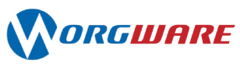
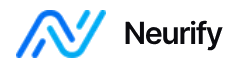
Update Neurify client branding

diff --git a/index.html b/index.html
@@ -406,7 +406,7 @@
 </div>
 <div class="bubble-element Group baTaSkp bubble-r-container flex column" style="overflow: visible; justify-content: flex-start; row-gap: 44px; border-radius: 0px; opacity: 1; align-self: flex-start; min-width: 0px; order: 2; min-height: 0px; height: max-content; flex-grow: 0; flex-shrink: 0; width: calc(100% + 0px); margin: 24px 0px 0px; z-index: 6;"><div class="bubble-element Text baTaSkr" style="white-space: pre-wrap; overflow: visible; font-family: var(--font_default); font-size: 24px; font-weight: 400; color: var(--color_text_default); line-height: 1.4; border-radius: 0px; opacity: 1; align-self: flex-start; min-width: 320px; max-width: 680px; order: 2; min-height: 0px; height: max-content; flex-grow: 0; flex-shrink: 0; width: auto; margin: 0px; z-index: 2;">We build real software &mdash; <font color="#FF7C60"><strong>fast</strong></font> &mdash; using <font color="#3281dc"><strong>AI-native</strong></font> engineering and product thinking.</div><button class="clickable-element bubble-element Button baTaSkq flex-aligned-button" style="background-color: var(--color_text_default); font-family: var(--font_default); font-size: 18px; font-weight: 600; color: var(--color_primary_contrast_default); text-align: center; letter-spacing: 0.1px; line-height: 1.4; border-radius: 12px; padding: 8px 20px; opacity: 1; transition: background 200ms; cursor: pointer; align-self: flex-start; min-width: 60px; order: 3; min-height: 48px; height: max-content; flex-grow: 0; flex-shrink: 0; width: auto; margin: 0px; z-index: 3; flex-direction: row; justify-content: center; gap: 8px; align-items: center;"><span class="icon-item" style="width: 20px; height: 20px; color: var(--color_primary_contrast_default); flex-shrink: 0; font-size: 0px;"><span class="ix-icon" aria-hidden="true"><i class="fa fa-arrow-circle-down"></i></span></span><span class="label-item" style="min-width: 0px; overflow-wrap: break-word; text-align: center;">How fast can you build?</span></button></div>
 </div>
-<div class="bubble-element Group baTaSaYf bubble-r-container flex column" style="overflow: visible; justify-content: flex-start; border-top: 1px solid rgba(84, 84, 84, 0.2); border-radius: 0px; border-bottom: 1px solid rgba(84, 84, 84, 0.2); padding: 24px 0px; opacity: 1; align-self: center; min-width: 0px; order: 11; min-height: 56px; height: max-content; flex-grow: 0; flex-shrink: 0; width: calc(100% + 0px); margin: 40px 0px; z-index: 11;"><div class="bubble-element Group baTaSdaX bubble-r-container flex column" style="overflow: visible; justify-content: flex-start; border-radius: 0px; opacity: 1; align-self: center; min-width: 0px; max-width: 1200px; order: 3; min-height: 0px; height: max-content; flex-grow: 0; flex-shrink: 0; width: calc(100% + 0px); margin: 0px; z-index: 4;"><div class="bubble-element RepeatingGroup baTaSdaQ bubble-rg" id="clientLogosContainer" style="overflow: auto; border-radius: 0px; opacity: 1; align-self: center; min-width: 0px; order: 1; min-height: 120px; height: max-content; flex-grow: 0; flex-shrink: 0; width: calc(100% + 0px); margin: 0px; z-index: 3; gap: 0px; grid-template-rows: repeat(1, minmax(max-content, auto)); grid-template-columns: repeat(6, minmax(0px, 1fr)); grid-auto-flow: row;"><div class="bubble-element group-item bubble-r-container flex column entry-1" style="box-sizing: content-box; justify-content: center;"><div class="clickable-element bubble-element Image baTaSdaV" title="Concreon" style="border-radius: 16px; opacity: 1; cursor: pointer; align-self: center; min-width: 170px; max-width: 170px; order: 1; height: max-content; flex-grow: 0; flex-shrink: 0; width: 170px; margin: 10px 0px; z-index: 2;"><div class="aspect-ratio" style="position: relative; height: 0px; padding-top: 27.9221%;"></div><img src="./assets/images/ClientBrand1.png" alt="" style="top: 0px; left: 0px; display: block; width: 100%; height: 100%; object-fit: cover; position: absolute; border-radius: 16px;"></div></div><div class="bubble-element group-item bubble-r-container flex column entry-2" style="box-sizing: content-box; border-left-width: 0px; border-left-color: rgba(var(--color_text_default_rgb), 0.15); border-left-style: none; margin-left: 0px; justify-content: center;"><div class="clickable-element bubble-element Image baTaSdaV" title="Verve VFX Studio" style="border-radius: 16px; opacity: 1; cursor: pointer; align-self: center; min-width: 170px; max-width: 170px; order: 1; height: max-content; flex-grow: 0; flex-shrink: 0; width: 170px; margin: 10px 0px; z-index: 2; box-shadow: none;"><div class="aspect-ratio" style="position: relative; height: 0px; padding-top: 27.9221%;"></div><img src="./assets/images/ClientBrand3.png" alt="" style="top: 0px; left: 0px; display: block; width: 100%; height: 100%; object-fit: cover; position: absolute; border-radius: 16px;"></div></div><div class="bubble-element group-item bubble-r-container flex column entry-3" style="box-sizing: content-box; border-left-width: 0px; border-left-color: rgba(var(--color_text_default_rgb), 0.15); border-left-style: none; margin-left: 0px; justify-content: center;"><div class="clickable-element bubble-element Image baTaSdaV" title="Bibles for America" style="border-radius: 16px; opacity: 1; cursor: pointer; align-self: center; min-width: 170px; max-width: 170px; order: 1; height: max-content; flex-grow: 0; flex-shrink: 0; width: 170px; margin: 10px 0px; z-index: 2; box-shadow: none;"><div class="aspect-ratio" style="position: relative; height: 0px; padding-top: 27.9221%;"></div><img src="./assets/images/ClientBrand5.png" alt="" style="top: 0px; left: 0px; display: block; width: 100%; height: 100%; object-fit: cover; position: absolute; border-radius: 16px;"></div></div><div class="bubble-element group-item bubble-r-container flex column entry-4" style="box-sizing: content-box; border-left-width: 0px; border-left-color: rgba(var(--color_text_default_rgb), 0.15); border-left-style: none; margin-left: 0px; justify-content: center;"><div class="clickable-element bubble-element Image baTaSdaV" title="NTeli" style="border-radius: 16px; opacity: 1; cursor: pointer; align-self: center; min-width: 170px; max-width: 170px; order: 1; height: max-content; flex-grow: 0; flex-shrink: 0; width: 170px; margin: 10px 0px; z-index: 2; box-shadow: none;"><div class="aspect-ratio" style="position: relative; height: 0px; padding-top: 27.9221%;"></div><img src="./assets/images/ClientBrand6.png" alt="" style="top: 0px; left: 0px; display: block; width: 100%; height: 100%; object-fit: cover; position: absolute; border-radius: 16px;"></div></div><div class="bubble-element group-item bubble-r-container flex column entry-5" style="box-sizing: content-box; border-left-width: 0px; border-left-color: rgba(var(--color_text_default_rgb), 0.15); border-left-style: none; margin-left: 0px; justify-content: center;"><div class="clickable-element bubble-element Image baTaSdaV" title="JKS InfoTech" style="border-radius: 16px; opacity: 1; cursor: pointer; align-self: center; min-width: 170px; max-width: 170px; order: 1; height: max-content; flex-grow: 0; flex-shrink: 0; width: 170px; margin: 10px 0px; z-index: 2; box-shadow: none;"><div class="aspect-ratio" style="position: relative; height: 0px; padding-top: 27.9221%;"></div><img src="./assets/images/ClientBrand2.png" alt="" style="top: 0px; left: 0px; display: block; width: 100%; height: 100%; object-fit: cover; position: absolute; border-radius: 16px;"></div></div><div class="bubble-element group-item bubble-r-container flex column entry-6" style="box-sizing: content-box; border-left-width: 0px; border-left-color: rgba(var(--color_text_default_rgb), 0.15); border-left-style: none; margin-left: 0px; justify-content: center;"><div class="clickable-element bubble-element Image baTaSdaV" title="OrgWare" style="border-radius: 16px; opacity: 1; cursor: pointer; align-self: center; min-width: 170px; max-width: 170px; order: 1; height: max-content; flex-grow: 0; flex-shrink: 0; width: 170px; margin: 10px 0px; z-index: 2;"><div class="aspect-ratio" style="position: relative; height: 0px; padding-top: 27.9221%;"></div><img src="./assets/images/ClientBrand4.png" alt="" style="top: 0px; left: 0px; display: block; width: 100%; height: 100%; object-fit: cover; position: absolute; border-radius: 16px;"></div></div></div></div></div>
+<div class="bubble-element Group baTaSaYf bubble-r-container flex column" style="overflow: visible; justify-content: flex-start; border-top: 1px solid rgba(84, 84, 84, 0.2); border-radius: 0px; border-bottom: 1px solid rgba(84, 84, 84, 0.2); padding: 24px 0px; opacity: 1; align-self: center; min-width: 0px; order: 11; min-height: 56px; height: max-content; flex-grow: 0; flex-shrink: 0; width: calc(100% + 0px); margin: 40px 0px; z-index: 11;"><div class="bubble-element Group baTaSdaX bubble-r-container flex column" style="overflow: visible; justify-content: flex-start; border-radius: 0px; opacity: 1; align-self: center; min-width: 0px; max-width: 1200px; order: 3; min-height: 0px; height: max-content; flex-grow: 0; flex-shrink: 0; width: calc(100% + 0px); margin: 0px; z-index: 4;"><div class="bubble-element RepeatingGroup baTaSdaQ bubble-rg" id="clientLogosContainer" style="overflow: auto; border-radius: 0px; opacity: 1; align-self: center; min-width: 0px; order: 1; min-height: 120px; height: max-content; flex-grow: 0; flex-shrink: 0; width: calc(100% + 0px); margin: 0px; z-index: 3; gap: 0px; grid-template-rows: repeat(1, minmax(max-content, auto)); grid-template-columns: repeat(6, minmax(0px, 1fr)); grid-auto-flow: row;"><div class="bubble-element group-item bubble-r-container flex column entry-1" style="box-sizing: content-box; justify-content: center;"><div class="clickable-element bubble-element Image baTaSdaV" title="Concreon" style="border-radius: 16px; opacity: 1; cursor: pointer; align-self: center; min-width: 170px; max-width: 170px; order: 1; height: max-content; flex-grow: 0; flex-shrink: 0; width: 170px; margin: 10px 0px; z-index: 2;"><div class="aspect-ratio" style="position: relative; height: 0px; padding-top: 27.9221%;"></div><img src="./assets/images/ClientBrand1.png" alt="" style="top: 0px; left: 0px; display: block; width: 100%; height: 100%; object-fit: cover; position: absolute; border-radius: 16px;"></div></div><div class="bubble-element group-item bubble-r-container flex column entry-2" style="box-sizing: content-box; border-left-width: 0px; border-left-color: rgba(var(--color_text_default_rgb), 0.15); border-left-style: none; margin-left: 0px; justify-content: center;"><div class="clickable-element bubble-element Image baTaSdaV" title="Verve VFX Studio" style="border-radius: 16px; opacity: 1; cursor: pointer; align-self: center; min-width: 170px; max-width: 170px; order: 1; height: max-content; flex-grow: 0; flex-shrink: 0; width: 170px; margin: 10px 0px; z-index: 2; box-shadow: none;"><div class="aspect-ratio" style="position: relative; height: 0px; padding-top: 27.9221%;"></div><img src="./assets/images/ClientBrand3.png" alt="" style="top: 0px; left: 0px; display: block; width: 100%; height: 100%; object-fit: cover; position: absolute; border-radius: 16px;"></div></div><div class="bubble-element group-item bubble-r-container flex column entry-3" style="box-sizing: content-box; border-left-width: 0px; border-left-color: rgba(var(--color_text_default_rgb), 0.15); border-left-style: none; margin-left: 0px; justify-content: center;"><div class="clickable-element bubble-element Image baTaSdaV" title="Bibles for America" style="border-radius: 16px; opacity: 1; cursor: pointer; align-self: center; min-width: 170px; max-width: 170px; order: 1; height: max-content; flex-grow: 0; flex-shrink: 0; width: 170px; margin: 10px 0px; z-index: 2; box-shadow: none;"><div class="aspect-ratio" style="position: relative; height: 0px; padding-top: 27.9221%;"></div><img src="./assets/images/ClientBrand5.png" alt="" style="top: 0px; left: 0px; display: block; width: 100%; height: 100%; object-fit: cover; position: absolute; border-radius: 16px;"></div></div><div class="bubble-element group-item bubble-r-container flex column entry-4" style="box-sizing: content-box; border-left-width: 0px; border-left-color: rgba(var(--color_text_default_rgb), 0.15); border-left-style: none; margin-left: 0px; justify-content: center;"><div class="clickable-element bubble-element Image baTaSdaV" title="NTeli" style="border-radius: 16px; opacity: 1; cursor: pointer; align-self: center; min-width: 170px; max-width: 170px; order: 1; height: max-content; flex-grow: 0; flex-shrink: 0; width: 170px; margin: 10px 0px; z-index: 2; box-shadow: none;"><div class="aspect-ratio" style="position: relative; height: 0px; padding-top: 27.9221%;"></div><img src="./assets/images/ClientBrand6.png" alt="" style="top: 0px; left: 0px; display: block; width: 100%; height: 100%; object-fit: cover; position: absolute; border-radius: 16px;"></div></div><div class="bubble-element group-item bubble-r-container flex column entry-5" style="box-sizing: content-box; border-left-width: 0px; border-left-color: rgba(var(--color_text_default_rgb), 0.15); border-left-style: none; margin-left: 0px; justify-content: center;"><div class="clickable-element bubble-element Image baTaSdaV" title="JKS InfoTech" style="border-radius: 16px; opacity: 1; cursor: pointer; align-self: center; min-width: 170px; max-width: 170px; order: 1; height: max-content; flex-grow: 0; flex-shrink: 0; width: 170px; margin: 10px 0px; z-index: 2; box-shadow: none;"><div class="aspect-ratio" style="position: relative; height: 0px; padding-top: 27.9221%;"></div><img src="./assets/images/ClientBrand2.png" alt="" style="top: 0px; left: 0px; display: block; width: 100%; height: 100%; object-fit: cover; position: absolute; border-radius: 16px;"></div></div><div class="bubble-element group-item bubble-r-container flex column entry-6" style="box-sizing: content-box; border-left-width: 0px; border-left-color: rgba(var(--color_text_default_rgb), 0.15); border-left-style: none; margin-left: 0px; justify-content: center;"><div class="clickable-element bubble-element Image baTaSdaV" title="Neurify" style="border-radius: 16px; opacity: 1; cursor: pointer; align-self: center; min-width: 170px; max-width: 170px; order: 1; height: max-content; flex-grow: 0; flex-shrink: 0; width: 170px; margin: 10px 0px; z-index: 2;"><div class="aspect-ratio" style="position: relative; height: 0px; padding-top: 27.9221%;"></div><img src="./assets/images/ClientBrand4.png" alt="" style="top: 0px; left: 0px; display: block; width: 100%; height: 100%; object-fit: cover; position: absolute; border-radius: 16px;"></div></div></div></div></div>
 <!-- SECTION: OUR PROMISE / FAST DEVELOPMENT -->
 <div class="bubble-element Group baTaSkx bubble-r-container flex column" id="groupFastDevelopment" style="overflow: visible; justify-content: flex-start; border-radius: 0px; padding: 40px 22px; opacity: 1; align-self: center; min-width: 0px; max-width: 1200px; order: 14; min-height: 0px; height: max-content; flex-grow: 0; flex-shrink: 0; width: calc(100% + 0px); margin: 0px; z-index: 12;">
 <div class="bubble-element Text baTaSls" id="gradient-text" style="white-space: pre-wrap; overflow: visible; font-family: var(--font_default); font-size: 34px; font-weight: 500; color: rgba(var(--color_bTHED_default_rgb), 0.8); text-align: center; letter-spacing: -2px; line-height: 1.25; border-radius: 0px; opacity: 1; align-self: flex-start; min-width: 0px; order: 2; min-height: 0px; height: max-content; flex-grow: 0; flex-shrink: 0; width: calc(100% + 0px); margin: 0px; z-index: 4;">We can <font color="#FF7C60">build</font> MVPs and apps</div>

diff --git a/scripts.js b/scripts.js
@@ -171,8 +171,8 @@
       },
       {
         quote: 'The team is easy to work with and very responsive. We always knew what was happening with our project.',
-        name: 'Silvaster',
-        titleLines: ['CEO, OrgWare'],
+        name: 'Silvaster Antony',
+        titleLines: ['CEO, <i>OrgWare</i>,<br />CEO, <i>Neurify</i>'],
         photo: './assets/images/ClientPhoto-4.jpg',
         linkedin: 'https://www.linkedin.com/in/silvaster'
       },
@@ -768,8 +768,7 @@
       'bibles for america': 'https://biblesforamerica.org/',
       nteli: 'https://nteligroup.com/',
       'jks infotech': 'https://www.jksinfotech.in/',
-      orgware: 'https://orgware.in/',
-      orgwave: 'https://orgware.in/'
+      neurify: 'https://www.neurifytech.ai/'
     };
 
     document.querySelectorAll('#clientLogosContainer .baTaSdaV').forEach(function (logoNode) {
@@ -780,7 +779,7 @@
 
       // Fallback to image filename so logo click still works even if title differs.
       if (!targetUrl && logoSrc.indexOf('clientbrand4') !== -1) {
-        targetUrl = 'https://orgware.in/';
+        targetUrl = 'https://www.neurifytech.ai/';
       }
       if (!targetUrl) return;
 
